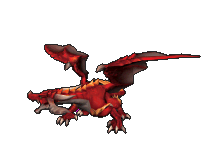
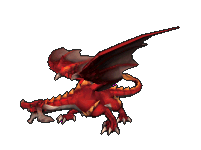
Enemy Animation

Changed region(s): [[0.0896, 0.16, 1.0, 0.9067]]

diff --git a/src/BookwormAdventures.java b/src/BookwormAdventures.java
@@ -17,7 +17,6 @@ public class BookwormAdventures extends JFrame {
     Timer myTimer;
     private Image bookwormIcon;
     GamePanel game;
-    private static Image back;
 
     public static void main(String[] arguments) throws IOException{
         BookwormAdventures frame = new BookwormAdventures();
@@ -30,7 +29,7 @@ public class BookwormAdventures extends JFrame {
         setDefaultCloseOperation(JFrame.EXIT_ON_CLOSE);
         setSize(1280,820);
 
-        myTimer = new Timer(10, new TickListener());	 // trigger every 100 ms
+        myTimer = new Timer(100, new TickListener());	 // trigger every 100 ms
         myTimer.start();
 
         game = new GamePanel();
@@ -38,20 +37,16 @@ public class BookwormAdventures extends JFrame {
 
         setResizable(false);
         setVisible(true);
-        try {
-            //Loading pictures
-            back = ImageIO.read(new File(""));
 
-        }
-        catch (IOException e) {
-            System.out.println(e);
-        }
     }
 
     class TickListener implements ActionListener {
         public void actionPerformed(ActionEvent evt){
             if(game!= null && game.ready){
+                game.update();
                 game.repaint();
+
+
             }
         }
     }
@@ -71,6 +66,11 @@ class GamePanel extends JPanel implements KeyListener {
     private ArrayList<String> chosenWords = new ArrayList<String>();
     private Rectangle resetButton,submitButton;
     private String selectedWord = "";
+    private static Image FireBack, IceBack, SkyBack, WaterBack;
+    private Animation FireDragonIdle;
+    private SpriteList FireDragonList;
+    private Boolean animationPlaying;
+
     public GamePanel() throws IOException {
         addMouseListener(new clickListener());
         setSize(800,600);
@@ -89,8 +89,26 @@ class GamePanel extends JPanel implements KeyListener {
             letterSlotsCondition[i] = true;
         }
         alphabet = letters.randomXletters(16);
+        try {
+            //Loading Backgrounds
+            FireBack = ImageIO.read(new File("Pictures//Backgrounds//FireWorld.jpg"));
+            IceBack = ImageIO.read(new File("Pictures//Backgrounds//IceWorld.png"));
+            SkyBack = ImageIO.read(new File("Pictures//Backgrounds//SkyWorld.png"));
+            WaterBack = ImageIO.read(new File("Pictures//Backgrounds//WaterWorld.png"));
+        }
+        catch (IOException e) {
+            System.out.println(e);
+        }
+        animationPlaying=false;
+        FireDragonList = new SpriteList("Pictures/Enemies/Fire World/Fire Dragon",4);
+        FireDragonIdle = new Animation(FireDragonList.getList(),5);
 
+    }
 
+    public void update(){
+        if(animationPlaying) {
+            FireDragonIdle.update();
+        }
     }
     public int letterSlotBoolean(boolean a){
         int counter = 0;
@@ -132,15 +150,18 @@ class GamePanel extends JPanel implements KeyListener {
         super.addNotify();
         ready = true;
     }
-
+    public Animation getAnimation(){
+        return FireDragonIdle;
+    }
 
     public void paintComponent(Graphics g) {
 
-        g.setColor(Color.white);
-        g.fillRect(0,0,1280,820);
-        if (level == 1) {
-            g.setColor(Color.white);
-        }
+//        g.setColor(Color.white);
+//        g.fillRect(0,0,1280,820);
+//        if (level == 1) {
+//            g.setColor(Color.white);
+//        }
+        g.drawImage(FireBack,0,0,this);
         g.setColor(Color.BLACK);
         g.fillRect(0, 240, 1280, 20);
         g.fillRect(400, 240, 10, 480);
@@ -150,8 +171,6 @@ class GamePanel extends JPanel implements KeyListener {
             if (letterSlotsCondition[i]) {
                 g.drawImage(Letters.getImage("NORMAL", alphabet.get(i)), letterSlots[i].x + 20, letterSlots[i].y + 25, this);
             }
-
-
         }
         for (int i = 0; i < 16; i++) {
             if (letterSlots[i].contains(mx,my)) {
@@ -161,8 +180,6 @@ class GamePanel extends JPanel implements KeyListener {
                 }
             }
         }
-
-
         g.setColor(Color.BLACK);
         g.drawRect(resetButton.x, resetButton.y, resetButton.width + 10, resetButton.height);
         g.drawString("RESET",resetButton.x+resetButton.width/2,resetButton.y+resetButton.height/2);
@@ -202,6 +219,10 @@ class GamePanel extends JPanel implements KeyListener {
                 g.drawString(output,950,300+20*i);
             }
         }
+        ////////////////////ENEMIES
+        g.drawImage(FireDragonIdle.getSprite(),FireDragonIdle.getSpritePosX(),FireDragonIdle.getSpritePosY(),null);
+        System.out.println("image drawn");
+//        g.drawImage(FireDragonIdle.getSprite2(), 200, 50,null);
     }
 
     @Override
@@ -222,10 +243,23 @@ class GamePanel extends JPanel implements KeyListener {
         public void mouseEntered(MouseEvent e) {}
         public void mouseExited(MouseEvent e) {}
         public void mouseReleased(MouseEvent e) {}
-        public void mouseClicked(MouseEvent e){}
+        public void mouseClicked(MouseEvent e){
+            if (animationPlaying) {
+                animationPlaying = false;
+            }
+            else{
+                animationPlaying=true;
+            }
+
+        }
+
         public void mousePressed(MouseEvent e){
             mx = e.getX();
             my = e.getY();
+
+            System.out.println("click");
+
+
 
         }
     }

diff --git a/src/Animation.java b/src/Animation.java
@@ -1,0 +1,80 @@
+import java.awt.image.BufferedImage;
+import java.io.IOException;
+import java.util.ArrayList;
+import java.util.List;
+
+
+public class Animation {
+
+    private int currentFrame;               // animations current frame
+    private int val;
+    private int totalFrames;                // total amount of frames for your animation
+
+    private boolean stopped;                // has animations stopped
+
+    private List<BufferedImage> frames = new ArrayList<BufferedImage>();    // Arraylist of frames
+
+    public Animation(ArrayList<BufferedImage> frames, int frameDelay) {
+
+        this.stopped = true;
+
+        for (int i = 0; i < frames.size(); i++) {
+            this.frames.add(frames.get(i));
+        }
+
+
+        this.currentFrame = 0;
+        this.val=-1;
+        this.totalFrames = this.frames.size();
+
+    }
+
+    public void start() {
+        if (!stopped) {
+            return;
+        }
+        if (frames.size() == 0) {
+            return;
+        }
+        stopped = false;
+    }
+    public void stop() {
+        if (frames.size() == 0) {
+            return;
+        }
+
+        stopped = true;
+    }
+    public void restart() {
+        if (frames.size() == 0) {
+            return;
+        }
+        stopped = false;
+        currentFrame = 0;
+    }
+    public void reset() {
+        this.stopped = true;
+
+        this.currentFrame = 0;
+    }
+
+
+    public BufferedImage getSprite() {
+        return frames.get(currentFrame);
+    }
+    public int getSpritePosY(){
+        return 250-frames.get(currentFrame).getHeight();
+    }
+    public int getSpritePosX(){
+        return 1280-frames.get(currentFrame).getWidth();
+    }
+
+    public void update() {
+        if (currentFrame>=frames.size()-1 || currentFrame<=0){
+            val*=-1;
+        }
+        currentFrame+=val;
+//        System.out.println("updated to frame " + currentFrame);
+
+    }
+}

diff --git a/src/SpriteList.java b/src/SpriteList.java
@@ -1,0 +1,36 @@
+import javax.imageio.ImageIO;
+import javax.swing.*;
+import java.awt.*;
+import java.awt.image.BufferedImage;
+import java.io.File;
+import java.io.IOException;
+import java.nio.Buffer;
+import java.util.ArrayList;
+
+public class SpriteList {
+    private int size;
+    private ArrayList<BufferedImage> list = new ArrayList<>() ;
+
+    public SpriteList(String FileName , int size){
+        this.size=size;
+        for (int i=0 ; i<size; i++){
+            String j =Integer.toString(i);
+            try {
+                BufferedImage sprite = ImageIO.read(new File(FileName+ "/tile00" + j + ".png"));
+//                System.out.println("loaded " + j);
+                list.add(sprite);
+                System.out.println(list);
+            }catch(IOException e){
+                e.printStackTrace();
+            }
+
+
+        }
+    }
+    public ArrayList<BufferedImage> getList(){
+        return list;
+    }
+    public BufferedImage bufferedImage(int n){
+        return list.get(n);
+    }
+}
